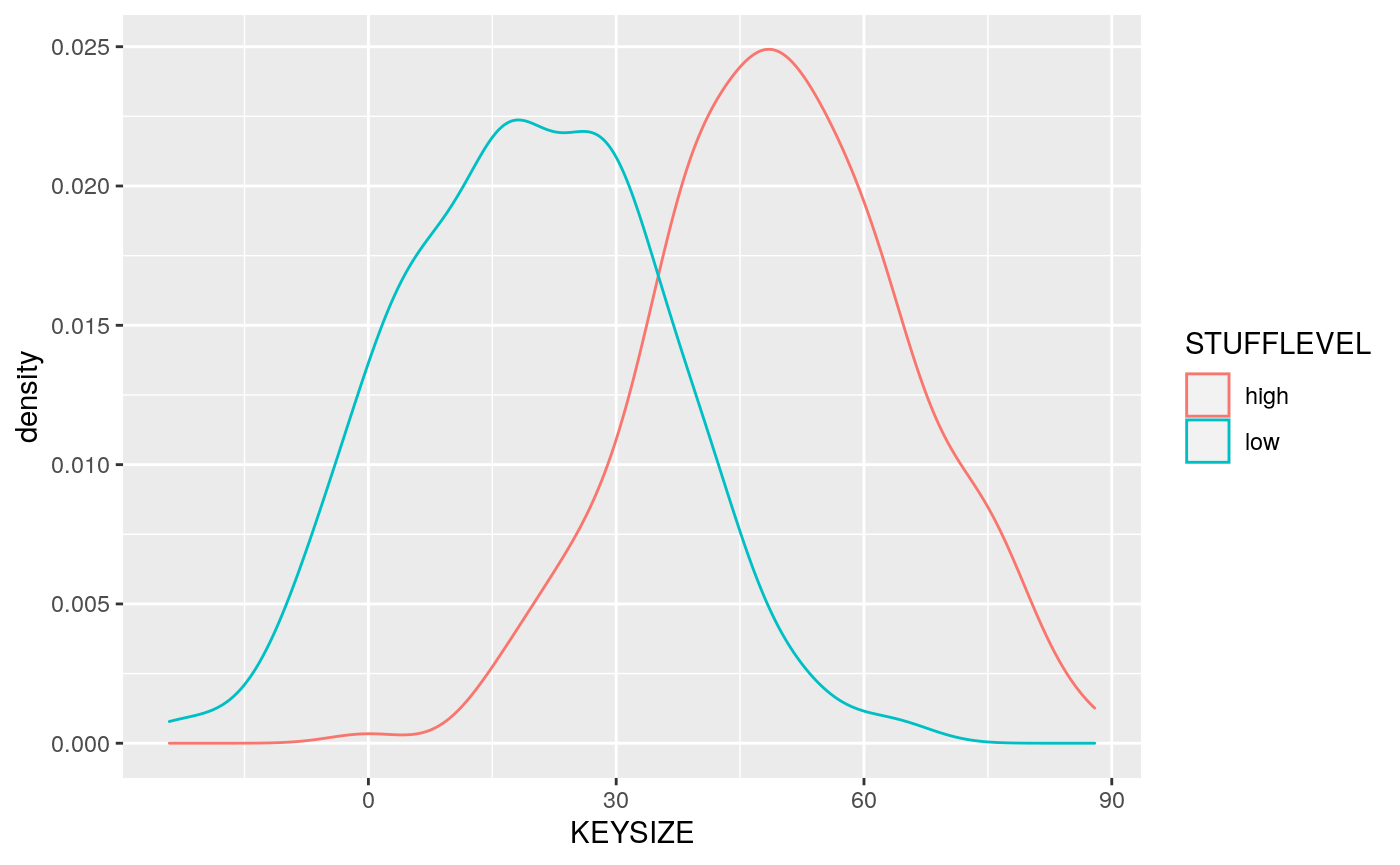
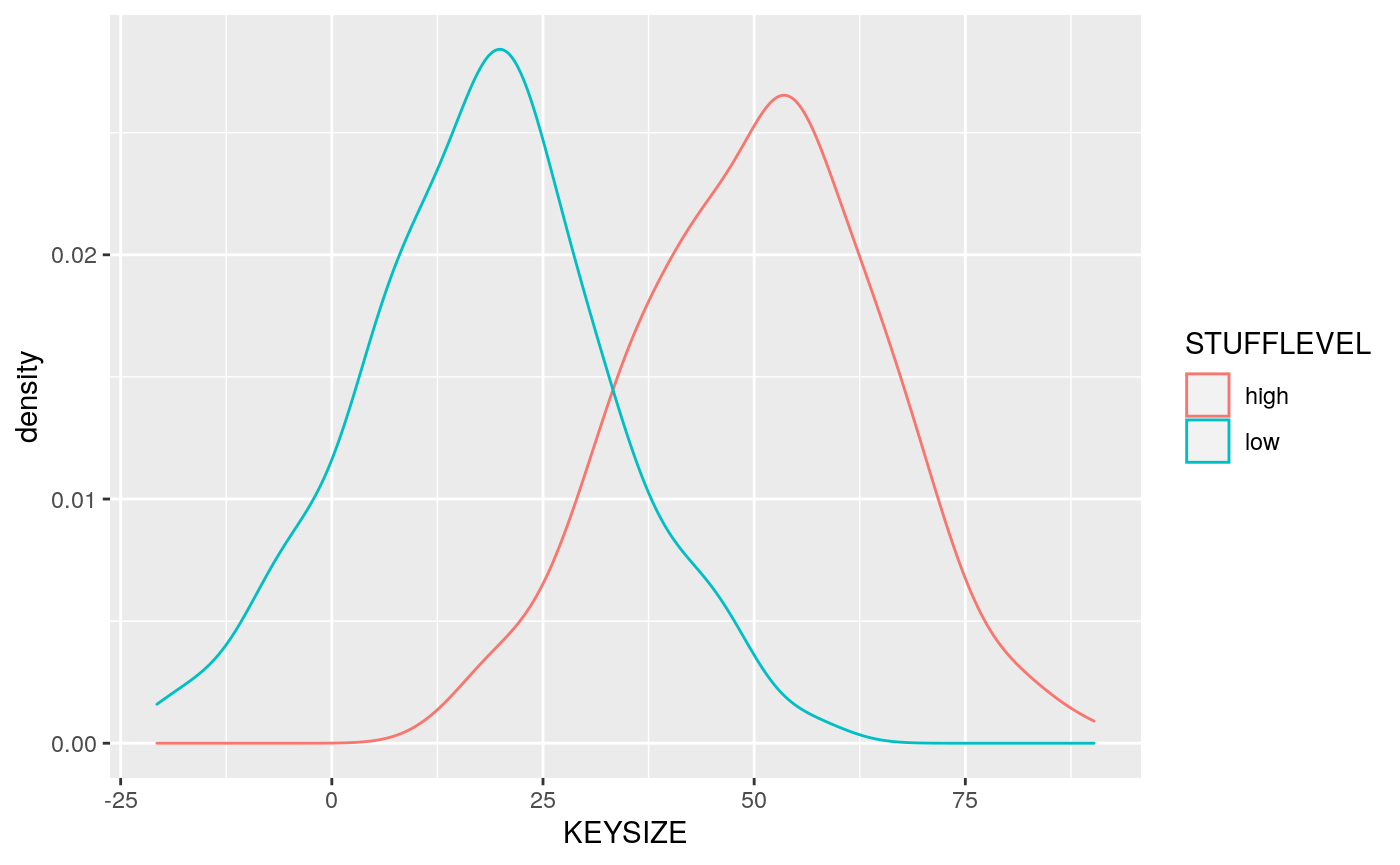
Built site for respectables: 0.0.3@9c2eb9c

diff --git a/reference/init_new_cols.html b/reference/init_new_cols.html
@@ -6,7 +6,7 @@
 <meta http-equiv="X-UA-Compatible" content="IE=edge">
 <meta name="viewport" content="width=device-width, initial-scale=1.0">
 
-<title>Convenience helper functions for defining relational-join recipes — rep_per_key • respectables</title>
+<title>Initialize new columns of the correct length — init_new_cols • respectables</title>
 
 
 <!-- jquery -->
@@ -39,10 +39,8 @@
 
 
 
-<meta property="og:title" content="Convenience helper functions for defining relational-join recipes — rep_per_key" />
-<meta property="og:description" content="These function constructors create functions suitable for use in
-relational-join recipes that expand or contract the row-dimension
-of the incoming data." />
+<meta property="og:title" content="Initialize new columns of the correct length — init_new_cols" />
+<meta property="og:description" content="Initialize new columns of the correct length" />
 
 
 
@@ -122,69 +120,57 @@ of the incoming data." />
 <div class="row">
   <div class="col-md-9 contents">
     <div class="page-header">
-    <h1>Convenience helper functions for defining relational-join recipes</h1>
+    <h1>Initialize new columns of the correct length</h1>
     
-    <div class="hidden name"><code>reljoin_funcs.Rd</code></div>
+    <div class="hidden name"><code>init_new_cols.Rd</code></div>
     </div>
 
     <div class="ref-description">
-    <p>These function constructors create functions suitable for use in
-relational-join recipes that expand or contract the row-dimension
-of the incoming data.</p>
+    <p>Initialize new columns of the correct length</p>
     </div>
 
-    <pre class="usage"><span class='fu'>rep_per_key</span>(<span class='no'>keyvar</span>, <span class='no'>count</span>, <span class='kw'>prop_present</span> <span class='kw'>=</span> <span class='fl'>1</span>)
-
-<span class='fu'>rand_per_key</span>(<span class='no'>keyvar</span>, <span class='kw'>mincount</span> <span class='kw'>=</span> <span class='fl'>1</span>, <span class='kw'>maxcount</span> <span class='kw'>=</span> <span class='fl'>20</span>, <span class='kw'>prop_present</span> <span class='kw'>=</span> <span class='fl'>0.5</span>)</pre>
+    <pre class="usage"><span class='fu'>init_new_cols</span>(
+  <span class='no'>n</span>,
+  <span class='kw'>colnames</span> <span class='kw'>=</span> <span class='fu'><a href='https://rdrr.io/r/base/names.html'>names</a></span>(<span class='no'>colclasses</span>),
+  <span class='kw'>colclasses</span> <span class='kw'>=</span> <span class='fu'><a href='https://rdrr.io/r/stats/setNames.html'>setNames</a></span>(<span class='fu'><a href='https://rdrr.io/r/base/rep.html'>rep</a></span>(<span class='fl'>NA</span>, <span class='fu'><a href='https://rdrr.io/r/base/length.html'>length</a></span>(<span class='no'>colnames</span>)), <span class='no'>colnames</span>)
+)</pre>
 
     <h2 class="hasAnchor" id="arguments"><a class="anchor" href="#arguments"></a>Arguments</h2>
     <table class="ref-arguments">
     <colgroup><col class="name" /><col class="desc" /></colgroup>
     <tr>
-      <th>keyvar</th>
-      <td><p>character(1).  The name of the column to treat as a foreign key.</p></td>
+      <th>n</th>
+      <td><p>numeric(1). The length (number of rows) to use when initializing.</p></td>
     </tr>
     <tr>
-      <th>count</th>
-      <td><p>numeric(1). The number of times each foreign-key value should appear in the
-scaffold data.</p></td>
+      <th>colnames</th>
+      <td><p>character. Vector of column names to use. Can be omitted if <code>colclasses</code> is specified.</p></td>
     </tr>
     <tr>
-      <th>prop_present</th>
-      <td><p>numeric(1). Proportion of the key values in the
-foreign    table     to    include    rows    for     in    the
-dimension-scaffold. Defaults to 1 (all values present).</p></td>
-    </tr>
-    <tr>
-      <th>mincount</th>
-      <td><p>numeric(1). Minimum replications for a present key</p></td>
-    </tr>
-    <tr>
-      <th>maxcount</th>
-      <td><p>numeric(1). Maximum replications for a pressent key</p></td>
+      <th>colclass</th>
+      <td><p>named character. Optional. Names must be identical to <code>colnames</code> if specified, values are classes such that <code>as(NA, .)</code> will succeed. Defaults to <code>NA</code> for each column, indicating character columns.</p></td>
     </tr>
     </table>
 
-    <h2 class="hasAnchor" id="details"><a class="anchor" href="#details"></a>Details</h2>
+    <h2 class="hasAnchor" id="value"><a class="anchor" href="#value"></a>Value</h2>
 
-    <p><code>rep_per_key</code> creates functions  which generate dimension-scaffolds
-that contain a constant number of  rows per key value (ie row of
-the incoming data), e.g., the the map from ADSL requires 3 rows per
-patient  (foreign key)  to synthesize  the long-form  PARAMCD-based
-ADTTE data.</p>
-<p><code>rand_per_key</code> creates functions which generate dimension-scaffolds
-which contain a uniformly distributed random number of rows
-per key value. An example of this would be that
-for adverse events, a patient can have anywehre from 0
-to 20 adverse events, each of which is a separate row
-in the new dimensions.</p>
+    <p>A data.frame with the new columns and <code>n</code> rows.</p>
 
     <h2 class="hasAnchor" id="examples"><a class="anchor" href="#examples"></a>Examples</h2>
-    <pre class="examples"><div class='input'><span class='no'>foreign_tbl</span> <span class='kw'>&lt;-</span> <span class='fu'><a href='https://rdrr.io/r/base/data.frame.html'>data.frame</a></span>(<span class='kw'>id</span> <span class='kw'>=</span> <span class='fl'>1</span>:<span class='fl'>5</span>)
-<span class='no'>perkey_fun</span> <span class='kw'>&lt;-</span> <span class='fu'>rep_per_key</span>(<span class='st'>"id"</span>, <span class='fl'>2</span>, <span class='fl'>.6</span>)
-<span class='fu'>perkey_fun</span>(<span class='kw'>.dbtab</span> <span class='kw'>=</span> <span class='no'>foreign_tbl</span>)</div><div class='output co'>#&gt; <span class='error'>Error in perkey_fun(.dbtab = foreign_tbl): unused argument (.dbtab = foreign_tbl)</span></div><div class='input'>
-<span class='no'>randrep_fun</span> <span class='kw'>&lt;-</span> <span class='fu'>rand_per_key</span>(<span class='st'>"id"</span>, <span class='kw'>mincount</span> <span class='kw'>=</span> <span class='fl'>1</span>, <span class='kw'>maxcount</span> <span class='kw'>=</span> <span class='fl'>5</span>)
-<span class='fu'>randrep_fun</span>(<span class='kw'>.dbtab</span> <span class='kw'>=</span> <span class='no'>foreign_tbl</span>)</div><div class='output co'>#&gt; <span class='error'>Error in randrep_fun(.dbtab = foreign_tbl): unused argument (.dbtab = foreign_tbl)</span></div></pre>
+    <pre class="examples"><div class='input'>
+<span class='fu'>init_new_cols</span>(<span class='fl'>5</span>, <span class='fu'><a href='https://rdrr.io/r/base/c.html'>c</a></span>(<span class='st'>"col1"</span>, <span class='st'>"col2"</span>))</div><div class='output co'>#&gt;   col1 col2
+#&gt; 1 &lt;NA&gt; &lt;NA&gt;
+#&gt; 2 &lt;NA&gt; &lt;NA&gt;
+#&gt; 3 &lt;NA&gt; &lt;NA&gt;
+#&gt; 4 &lt;NA&gt; &lt;NA&gt;
+#&gt; 5 &lt;NA&gt; &lt;NA&gt;</div><div class='input'>
+<span class='fu'>init_new_cols</span>(<span class='fl'>5</span>, <span class='kw'>colclasses</span> <span class='kw'>=</span> <span class='fu'><a href='https://rdrr.io/r/base/c.html'>c</a></span>(<span class='kw'>col1</span> <span class='kw'>=</span> <span class='fl'>NA</span>, <span class='kw'>col2</span> <span class='kw'>=</span> <span class='st'>"integer"</span>))</div><div class='output co'>#&gt;   col1 col2
+#&gt; 1 &lt;NA&gt;   NA
+#&gt; 2 &lt;NA&gt;   NA
+#&gt; 3 &lt;NA&gt;   NA
+#&gt; 4 &lt;NA&gt;   NA
+#&gt; 5 &lt;NA&gt;   NA</div><div class='input'>
+</div></pre>
   </div>
   <div class="col-md-3 hidden-xs hidden-sm" id="pkgdown-sidebar">
     <nav id="toc" data-toggle="toc" class="sticky-top">

diff --git a/articles/creating_synth_relational_data.html b/articles/creating_synth_relational_data.html
@@ -82,7 +82,7 @@
       <h1 data-toc-skip>Specifying, Simulating and Synthesizing Relational Data in R</h1>
                         <h4 class="author">Gabriel Becker</h4>
             
-            <h4 class="date">2021-08-02</h4>
+            <h4 class="date">2021-08-03</h4>
       
       
       <div class="hidden name"><code>creating_synth_relational_data.Rmd</code></div>
@@ -197,12 +197,12 @@
 <span class="no">sillydata</span> <span class="kw">&lt;-</span> <span class="fu"><a href="../reference/gen_table_data.html">gen_table_data</a></span>(<span class="kw">N</span> <span class="kw">=</span> <span class="fl">500</span>, <span class="kw">recipe</span> <span class="kw">=</span> <span class="no">recipe</span>)
 <span class="fu"><a href="https://rdrr.io/r/utils/head.html">head</a></span>(<span class="no">sillydata</span>)</pre></body></html></div>
 <pre><code>##      ID STUFFLEVEL   KEYSIZE           ACCT_OPEN         ACCT_CLOSED
-## 1 ID001        low -4.708459 2015-09-07 12:26:00                &lt;NA&gt;
-## 2 ID002       high 33.628701 2019-01-24 22:57:07                &lt;NA&gt;
-## 3 ID003        low  4.256278 2021-05-29 10:48:06                &lt;NA&gt;
-## 4 ID004        low 37.517354 2019-03-30 14:36:13 2019-11-21 04:33:33
-## 5 ID005       high 64.354308 2019-09-02 23:47:58                &lt;NA&gt;
-## 6 ID006        low 34.805822 2015-01-27 07:45:22                &lt;NA&gt;</code></pre>
+## 1 ID001        low 26.379436 2020-06-23 16:49:36                &lt;NA&gt;
+## 2 ID002       high 35.592755 2018-06-11 03:53:45 2018-08-23 07:53:47
+## 3 ID003       high 46.876945 2021-04-12 18:44:49                &lt;NA&gt;
+## 4 ID004        low 24.586913 2016-02-24 13:58:52                &lt;NA&gt;
+## 5 ID005        low  9.784794 2019-01-08 17:52:29                &lt;NA&gt;
+## 6 ID006       high 41.993237 2020-08-26 21:36:03 2021-02-11 15:33:54</code></pre>
 <p>We can see that the conditional distribution worked by plotting the data densities for each <code>STUFFLEVEL</code> value</p>
 <div class="sourceCode" id="cb6"><html><body><pre class="r"><span class="fu"><a href="https://rdrr.io/r/base/message.html">suppressPackageStartupMessages</a></span>(<span class="fu"><a href="https://rdrr.io/r/base/library.html">library</a></span>(<span class="no">ggplot2</span>))
 
@@ -295,13 +295,20 @@
 <span class="co">## already created sillydata dataset</span>
 <span class="no">buysdf</span> <span class="kw">&lt;-</span> <span class="fu"><a href="../reference/gen_reljoin_table.html">gen_reljoin_table</a></span>(<span class="no">sjrecipe</span>, <span class="no">buys_rec</span>, <span class="kw">db</span> <span class="kw">=</span> <span class="fu"><a href="https://rdrr.io/r/base/list.html">list</a></span>(<span class="kw">sillydata</span> <span class="kw">=</span> <span class="no">sillydata</span>))
 <span class="fu"><a href="https://rdrr.io/r/utils/head.html">head</a></span>(<span class="no">buysdf</span>)</pre></body></html></div>
-<pre><code>##      ID BUYID             BUYDATE PRODUCTID        DESC
-## 4 ID001    25 2015-10-19 01:42:43     PROD5    Thingbat
-## 1 ID001    27 2015-11-06 18:32:57     PROD4     Spanner
-## 2 ID001   249 2018-04-09 00:50:17     PROD6 Thingbat v2
-## 3 ID001   768 2020-08-06 13:08:16     PROD5    Thingbat
-## 5 ID002   498 2019-07-17 18:55:59     PROD4     Spanner
-## 8 ID002   553 2019-10-16 15:59:58     PROD6 Thingbat v2</code></pre>
+<pre><code>##      ID STUFFLEVEL  KEYSIZE           ACCT_OPEN         ACCT_CLOSED BUYID
+## 3 ID001        low 26.37944 2020-06-23 16:49:36                &lt;NA&gt;   763
+## 1 ID001        low 26.37944 2020-06-23 16:49:36                &lt;NA&gt;   836
+## 2 ID001        low 26.37944 2020-06-23 16:49:36                &lt;NA&gt;   897
+## 6 ID002       high 35.59275 2018-06-11 03:53:45 2018-08-23 07:53:47   249
+## 4 ID002       high 35.59275 2018-06-11 03:53:45 2018-08-23 07:53:47   251
+## 7 ID002       high 35.59275 2018-06-11 03:53:45 2018-08-23 07:53:47   256
+##               BUYDATE PRODUCTID         DESC
+## 3 2020-09-03 17:47:06     PROD2 HLight Fluid
+## 1 2020-11-26 15:51:10     PROD5     Thingbat
+## 2 2021-02-04 01:45:18     PROD2 HLight Fluid
+## 6 2018-06-20 01:39:38     PROD2 HLight Fluid
+## 4 2018-06-24 22:06:14     PROD5     Thingbat
+## 7 2018-07-17 12:35:11     PROD1       Doodad</code></pre>
 </div>
 </div>
   </div>

diff --git a/reference/samps.html b/reference/samps.html
@@ -165,11 +165,11 @@ levels get used as the new levels</p></td>
     <p>a factor of length N</p>
 
     <h2 class="hasAnchor" id="examples"><a class="anchor" href="#examples"></a>Examples</h2>
-    <pre class="examples"><div class='input'><span class='fu'>sample_fct</span>(<span class='no'>letters</span>[<span class='fl'>1</span>:<span class='fl'>3</span>], <span class='fl'>10</span>)</div><div class='output co'>#&gt;  [1] b c a a a b b c c b
-#&gt; Levels: a b c</div><div class='input'><span class='fu'>sample_fct</span>(<span class='no'>iris</span>$<span class='no'>Species</span>, <span class='fl'>10</span>)</div><div class='output co'>#&gt;  [1] setosa     virginica  setosa     versicolor setosa     virginica 
-#&gt;  [7] setosa     virginica  setosa     setosa    
+    <pre class="examples"><div class='input'><span class='fu'>sample_fct</span>(<span class='no'>letters</span>[<span class='fl'>1</span>:<span class='fl'>3</span>], <span class='fl'>10</span>)</div><div class='output co'>#&gt;  [1] a b c c c b a a a c
+#&gt; Levels: a b c</div><div class='input'><span class='fu'>sample_fct</span>(<span class='no'>iris</span>$<span class='no'>Species</span>, <span class='fl'>10</span>)</div><div class='output co'>#&gt;  [1] setosa     versicolor versicolor virginica  versicolor versicolor
+#&gt;  [7] setosa     setosa     setosa     setosa    
 #&gt; Levels: setosa versicolor virginica</div><div class='input'>
-<span class='fu'>sample_yn</span>(<span class='fl'>3</span>)</div><div class='output co'>#&gt; [1] Y Y N
+<span class='fu'>sample_yn</span>(<span class='fl'>3</span>)</div><div class='output co'>#&gt; [1] N Y Y
 #&gt; Levels: Y N</div><div class='input'>
 <span class='fu'>rep_n</span>(<span class='st'>"aaa"</span>, <span class='fl'>5</span>)</div><div class='output co'>#&gt; [1] "aaa" "aaa" "aaa" "aaa" "aaa"</div><div class='input'><span class='fu'>rep_n</span>(<span class='fl'>1</span>:<span class='fl'>5</span>, <span class='fl'>2</span>)</div><div class='output co'>#&gt;  [1] 1 2 3 4 5 1 2 3 4 5</div><div class='input'>
 <span class='fu'>seq_n</span>(<span class='fl'>10</span>)</div><div class='output co'>#&gt;  [1]  1  2  3  4  5  6  7  8  9 10</div><div class='input'>

diff --git a/reference/lookup_fun.html b/reference/lookup_fun.html
@@ -152,16 +152,16 @@ it directly.</p>
     <h2 class="hasAnchor" id="examples"><a class="anchor" href="#examples"></a>Examples</h2>
     <pre class="examples"><div class='input'><span class='fu'>lookup_fun</span>(<span class='no'>rnorm</span>)</div><div class='output co'>#&gt; function (n, mean = 0, sd = 1) 
 #&gt; .Call(C_rnorm, n, mean, sd)
-#&gt; &lt;bytecode: 0x55c12d770a78&gt;
+#&gt; &lt;bytecode: 0x55d79ea77720&gt;
 #&gt; &lt;environment: namespace:stats&gt;</div><div class='input'><span class='fu'>lookup_fun</span>(<span class='st'>"rnorm"</span>)</div><div class='output co'>#&gt; function (n, mean = 0, sd = 1) 
 #&gt; .Call(C_rnorm, n, mean, sd)
-#&gt; &lt;bytecode: 0x55c12d770a78&gt;
+#&gt; &lt;bytecode: 0x55d79ea77720&gt;
 #&gt; &lt;environment: namespace:stats&gt;</div><div class='input'><span class='fu'>lookup_fun</span>(<span class='st'>"stats::rnorm"</span>)</div><div class='output co'>#&gt; function (n, mean = 0, sd = 1) 
 #&gt; .Call(C_rnorm, n, mean, sd)
-#&gt; &lt;bytecode: 0x55c12d770a78&gt;
+#&gt; &lt;bytecode: 0x55d79ea77720&gt;
 #&gt; &lt;environment: namespace:stats&gt;</div><div class='input'><span class='fu'>lookup_fun</span>(<span class='st'>"stats:::rnorm"</span>)</div><div class='output co'>#&gt; function (n, mean = 0, sd = 1) 
 #&gt; .Call(C_rnorm, n, mean, sd)
-#&gt; &lt;bytecode: 0x55c12d770a78&gt;
+#&gt; &lt;bytecode: 0x55d79ea77720&gt;
 #&gt; &lt;environment: namespace:stats&gt;</div></pre>
   </div>
   <div class="col-md-3 hidden-xs hidden-sm" id="pkgdown-sidebar">
